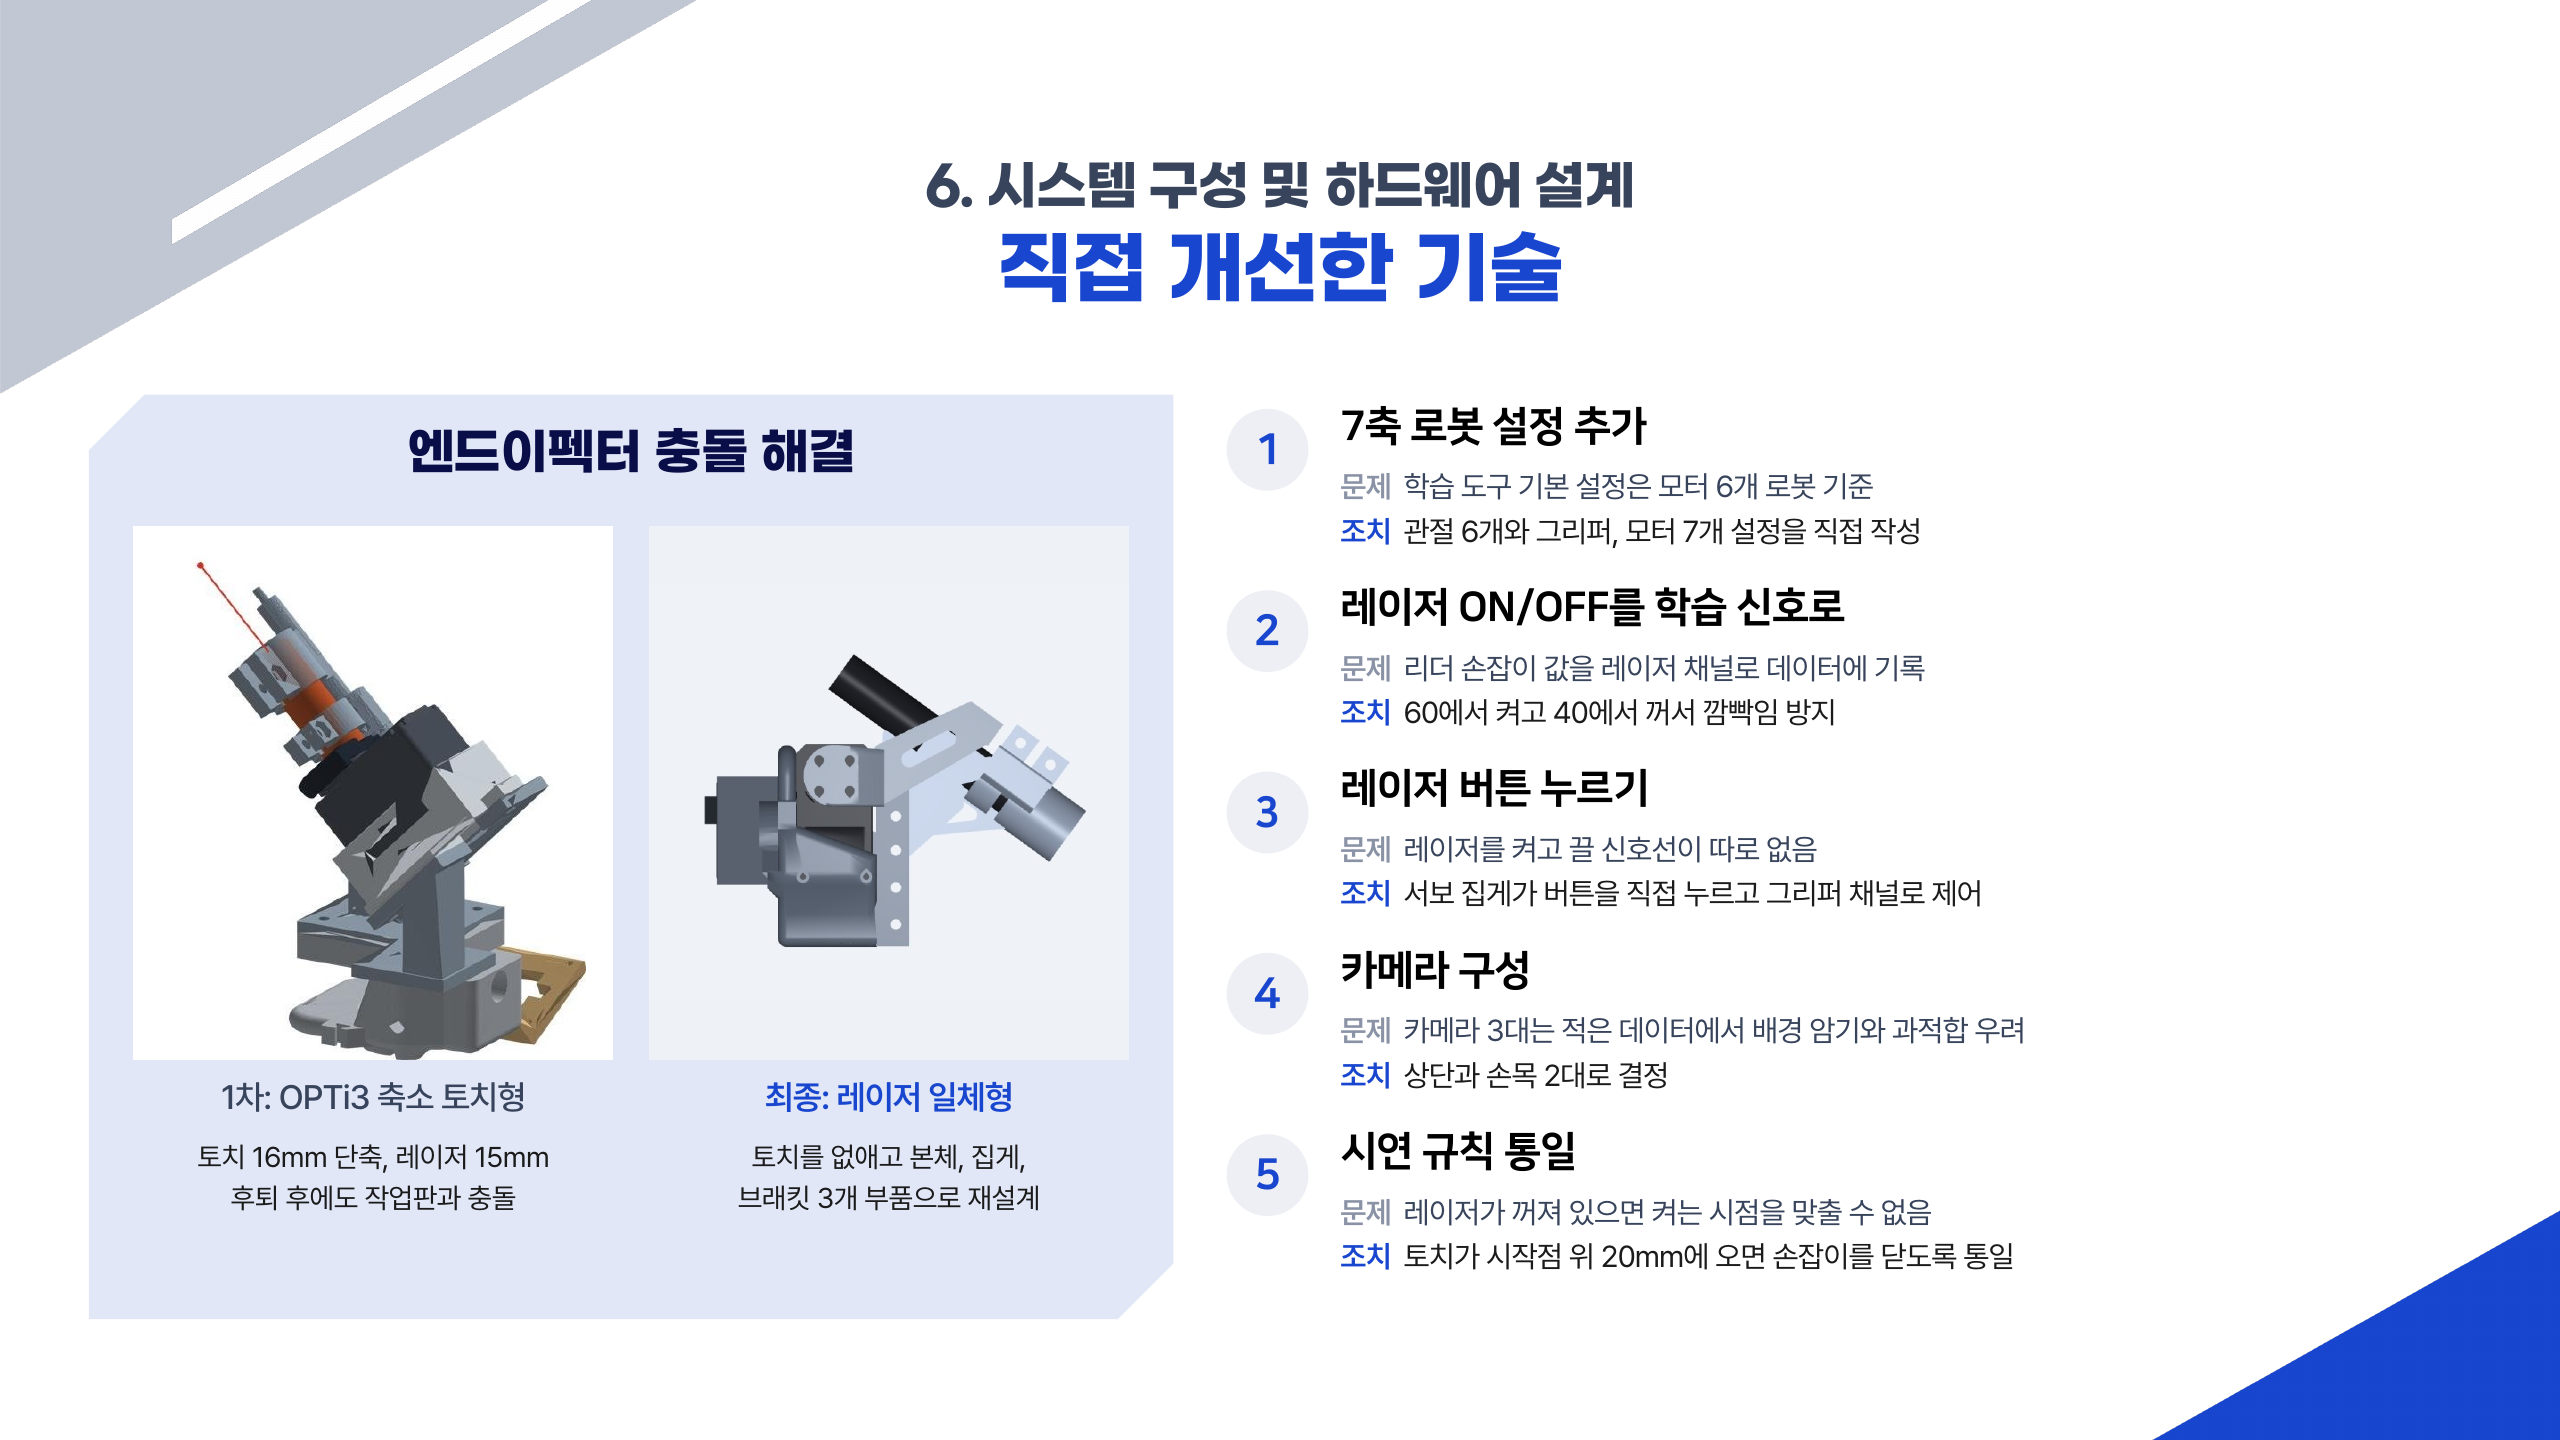
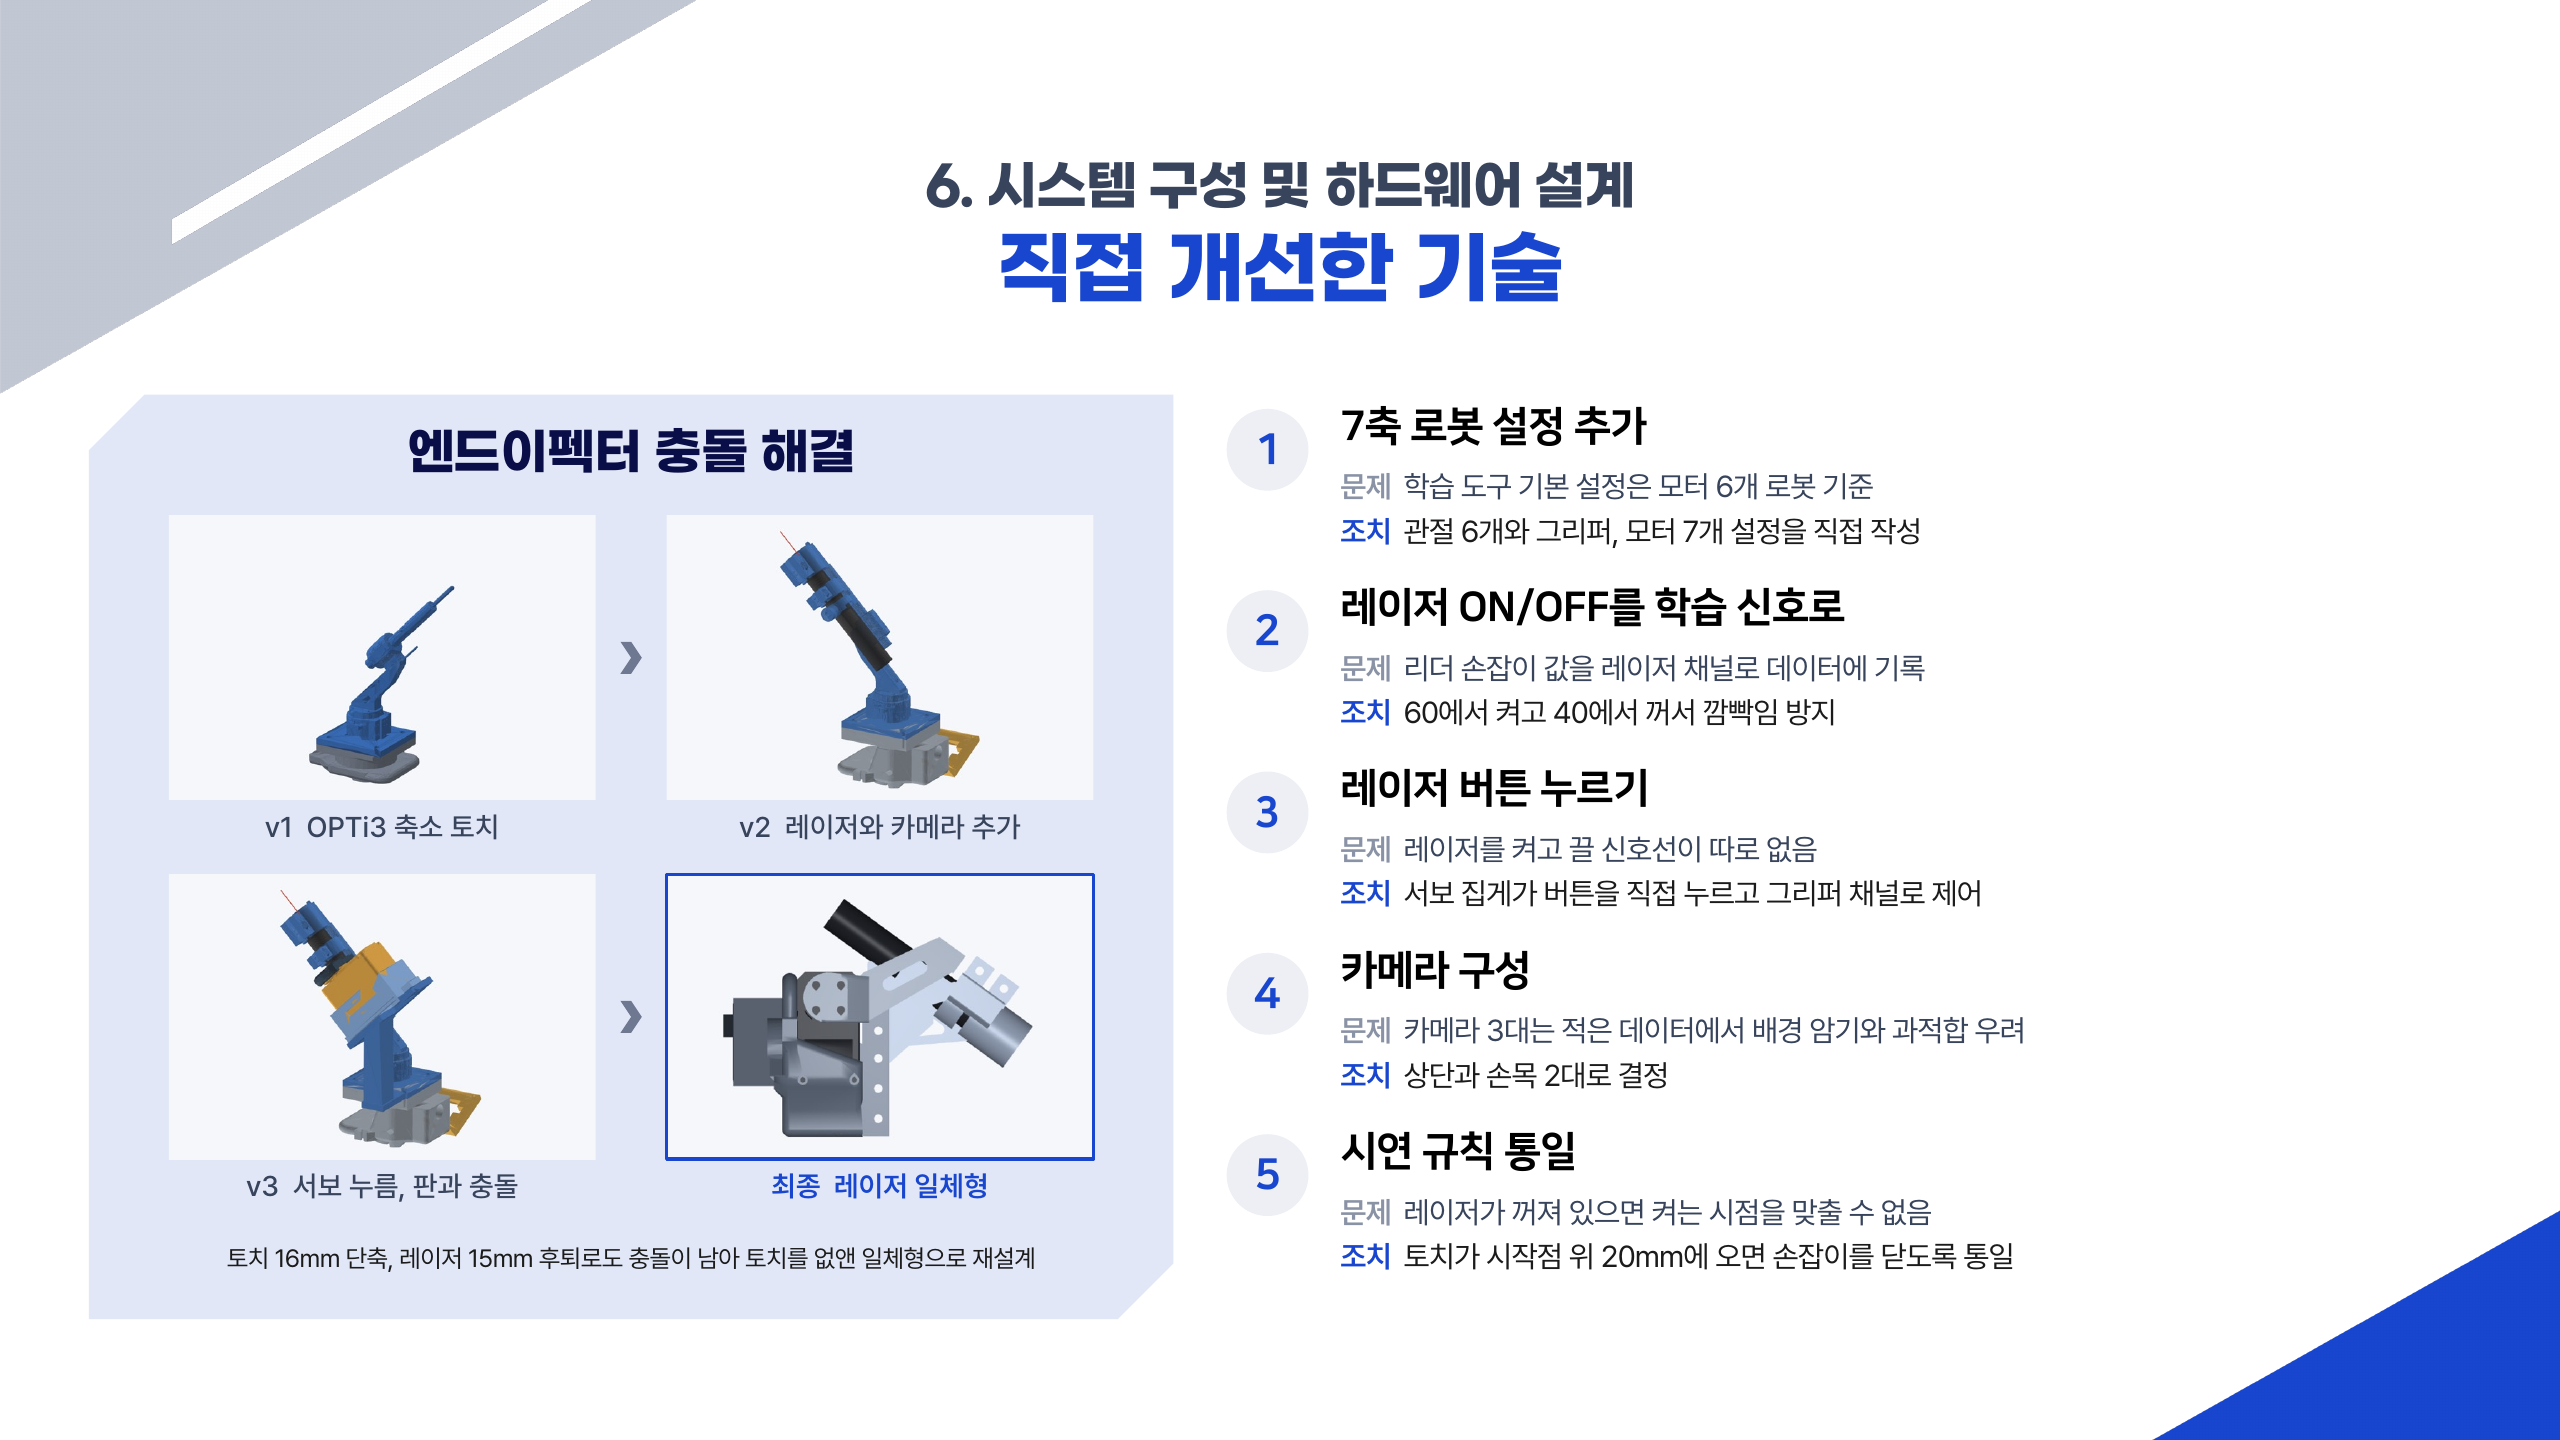
설계 변천 v1~v3, 최종 그림을 직접 개선한 기술 장으로 옮기고 하드웨어 장은 실물 사진과 CAD를 크게

Changed region(s): [[0.0312, 0.3438, 0.4375, 0.875], [0.1562, 0.4062, 0.1875, 0.4375]]

diff --git a/index.html b/index.html
@@ -60,8 +60,8 @@
   <img class="slide" src="deck/final/07.png" alt="5. 개발 대상 및 자율 작업 시나리오: 수평 접합선에 대응하는 자율용접 작업 구현. 3면 직각 시편과 T형 필릿 시편" loading="lazy">
   <img class="slide" src="deck/final/08.png" alt="6. 시스템 구성 및 하드웨어 설계: 자율용접 로봇 시스템 아키텍처" loading="lazy">
   <img class="slide" src="deck/final/09.png" alt="6. 시스템 구성 및 하드웨어 설계: 역할을 나눈 세 가지 AI. ACT 모방학습(제어), YOLO 용접선 검출(인식과 검증), 손 검출 인터록(안전)" loading="lazy">
-  <img class="slide" src="deck/final/10.png" alt="6. 시스템 구성 및 하드웨어 설계: 하드웨어 설계. 레이저 일체형 엔드이펙터, 설계 변천 v1, v2, v3, 최종" loading="lazy">
-  <img class="slide" src="deck/final/11.png" alt="6. 시스템 구성 및 하드웨어 설계: 직접 개선한 기술. 1차 OPTi3 축소 토치형과 최종 레이저 일체형 비교" loading="lazy">
+  <img class="slide" src="deck/final/10.png" alt="6. 시스템 구성 및 하드웨어 설계: 하드웨어 설계. 레이저 일체형 엔드이펙터 실물 사진과 CAD, 매니퓰레이터, 엔드이펙터, 카메라, 개선 내용" loading="lazy">
+  <img class="slide" src="deck/final/11.png" alt="6. 시스템 구성 및 하드웨어 설계: 직접 개선한 기술. 엔드이펙터 설계 변천 v1, v2, v3, 최종 레이저 일체형" loading="lazy">
   <img class="slide" src="deck/final/12.png" alt="7. 실시간 작업 모니터링: 웹 대시보드로 보는 영상과 로봇 상태" loading="lazy">
   <img class="slide" src="deck/final/13.png" alt="7. 실시간 작업 모니터링: YOLO 용접선 검출과 진행 표시, 성공 판정 기준" loading="lazy">
   <img class="slide" src="deck/final/14.png" alt="8. ACT 기반 모방학습 및 자율 제어: 시연, 기록, ACT 학습, 자율 실행, ACT는 동작을 묶음으로 예측" loading="lazy">
